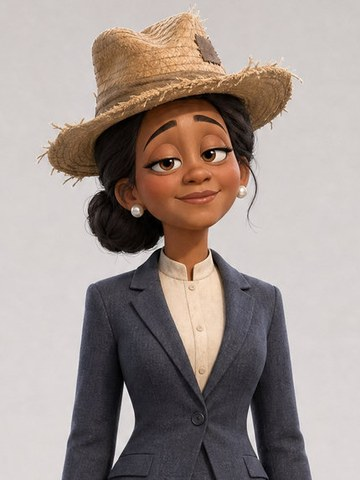
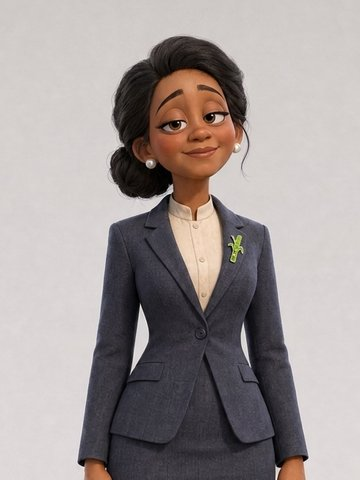
Fichas de toda la plantilla, puestos de Dependiente y Encarna responsable de ventas
Añade las fotos de carné que faltaban (Chema, Rafa, Ramiro, Remedios, Josemi,
Noelia, Yolanda, Jonay, Wilson, Borja, Marcelo, Karim y Gianni) y cambia la
de Inma por la versión sin sombrero. Mostrador pasa a Dependiente/Dependienta,
Encarna es responsable de ventas y Ramiro su jefe.

Claude-Session: https://claude.ai/code/session_01HZXDhY83XEg42pUPwt2wmp

diff --git a/js/datos.js b/js/datos.js
@@ -39,30 +39,30 @@ const PLANTILLA = [
   { nombre: "Don Evaristo", edad: 58, puesto: "Dirección", sede: "paramo", antiguedad: "Lunes 25", frase: "Aquí somos todos una gran familia.", perfil: "El jefe bueno. Firma todo sin leer, siempre para ayudar a un amigo.", senas: "Estilográfica en la mano y un folleto bajo el brazo", foto: "img/plantilla/evaristo.jpg", video: "", grabado: false },
   { nombre: "Cayetano", edad: 24, puesto: "Dirección (hijo del dueño)", sede: "paramo", antiguedad: "Lunes 25, desde las 11", frase: "Voy de culo.", perfil: "Llega a las once de una reunión, se va dos horas a comer y está siempre hasta arriba. Nadie sabe en qué trabaja.", senas: "Gafas de sol en la cabeza y llaves del BMW", foto: "img/plantilla/cayetano.jpg", video: "", grabado: true },
   { nombre: "Pelucifer", edad: "—", puesto: "Dirección (vive en la cabeza de Cayetano)", sede: "paramo", antiguedad: "Lo que tenga Cayetano", frase: "La verdadera felicidad son las criptomonedas.", perfil: "El peluquín con vida propia que se cree el verdadero jefe. Todos saben que está vivo y nadie lo comenta.", senas: "Un rizo grande delante y ojos de pillo", foto: "img/plantilla/pelucifer.jpg", video: "", grabado: false },
-  { nombre: "Chema", edad: 45, puesto: "Responsable de la sucursal", sede: "paramo", antiguedad: "Lunes 25", frase: "Para habernos matao.", perfil: "Macarra reconvertido en padre abnegado.", senas: "Pendientes, rapado y camiseta de grupo de rock", foto: "", video: "", grabado: false },
-  { nombre: "Rafa", edad: 44, puesto: "Comercial", sede: "paramo", antiguedad: "Lunes 25", frase: "Tú puedes, jefe... yo no, pero tú sí.", perfil: "Coach de superación que no se aplica nada. Sus charlas terminan con él llorando.", senas: "Micrófono de diadema y gafas de espejo", foto: "", video: "", grabado: false },
-  { nombre: "Ramiro", edad: 52, puesto: "Director de ventas", sede: "paramo", antiguedad: "Lunes 25", frase: "Hoy me como el mundo.", perfil: "Entra en cada reunión como en el final de una telenovela. A los cinco minutos se derrumba con dignidad.", senas: "Sombrero vaquero y espuelas que se oyen antes que él", foto: "", video: "", grabado: false },
+  { nombre: "Chema", edad: 45, puesto: "Responsable de la sucursal", sede: "paramo", antiguedad: "Lunes 25", frase: "Para habernos matao.", perfil: "Macarra reconvertido en padre abnegado.", senas: "Pendientes, rapado y camiseta de grupo de rock", foto: "img/plantilla/chema.jpg", video: "", grabado: false },
+  { nombre: "Rafa", edad: 44, puesto: "Comercial", sede: "paramo", antiguedad: "Lunes 25", frase: "Tú puedes, jefe... yo no, pero tú sí.", perfil: "Coach de superación que no se aplica nada. Sus charlas terminan con él llorando.", senas: "Micrófono de diadema y gafas de espejo", foto: "img/plantilla/rafa.jpg", video: "", grabado: false },
+  { nombre: "Ramiro", edad: 52, puesto: "Director de ventas (jefe de Rafa y Encarna)", sede: "paramo", antiguedad: "Lunes 25", frase: "Hoy me como el mundo.", perfil: "Entra en cada reunión como en el final de una telenovela. A los cinco minutos se derrumba con dignidad.", senas: "Sombrero vaquero y espuelas que se oyen antes que él", foto: "img/plantilla/ramiro.jpg", video: "", grabado: false },
   { nombre: "Anselmo", edad: 64, puesto: "Administración", sede: "paramo", antiguedad: "Se jubila la semana que viene", frase: "De aquí no te vas ni con los pies por delante.", perfil: "El veterano que cada mes anuncia que se va.", senas: "Mira siempre hacia arriba, como si oyera algo", foto: "img/plantilla/anselmo.jpg", video: "", grabado: true },
   { nombre: "Inma", edad: 32, puesto: "Jefa de Administración", sede: "paramo", antiguedad: "Lunes 25", frase: "Yo soy de campo, pero he estudiado.", perfil: "Elegancia extrema de oficina y el orgullo de quien lo consiguió todo con su esfuerzo. Cuando le toque la lotería no la volvéis a ver.", senas: "Pin de caña de azúcar en la solapa", foto: "img/plantilla/inma.jpg", video: "", grabado: true },
   { nombre: "Venancio", edad: 57, puesto: "Jefe de compras", sede: "paramo", antiguedad: "40 años en la casa", frase: "Esto con fe se arregla.", perfil: "Encomienda a un santo cada fallo de la impresora. Sabe dónde está todo porque llegó antes que los archivos.", senas: "Cruz pequeña en la solapa", foto: "img/plantilla/venancio.jpg", video: "", grabado: true },
-  { nombre: "Remedios", edad: 50, puesto: "Administración", sede: "paramo", antiguedad: "Lunes 25", frase: "A mí no me vais a robar el mérito.", perfil: "Tiene un pero para todo y siempre ya lo dijo, aunque nunca dijo nada.", senas: "Gafas que baja para mirar mal", foto: "", video: "", grabado: false },
-  { nombre: "Encarna", edad: 60, puesto: "Responsable de mostrador (media jornada)", sede: "paramo", antiguedad: "40 años en el mostrador", frase: "Son las dos.", perfil: "Cobra un plus por no tratar mal. A las 14:00 se levanta aunque esté a mitad de frase.", senas: "Reloj de pulsera enorme y bolso en el regazo", foto: "img/plantilla/encarna.jpg", video: "", grabado: true },
+  { nombre: "Remedios", edad: 50, puesto: "Administración", sede: "paramo", antiguedad: "Lunes 25", frase: "A mí no me vais a robar el mérito.", perfil: "Tiene un pero para todo y siempre ya lo dijo, aunque nunca dijo nada.", senas: "Gafas que baja para mirar mal y un tic en el ojo", foto: "img/plantilla/remedios.jpg", video: "", grabado: false },
+  { nombre: "Encarna", edad: 60, puesto: "Responsable de ventas (media jornada)", sede: "paramo", antiguedad: "40 años vendiendo. Ni un minuto más", frase: "Son las dos.", perfil: "Cobra un plus por no tratar mal. A las 14:00 se levanta aunque esté a mitad de frase.", senas: "Reloj de pulsera enorme y bolso en el regazo", foto: "img/plantilla/encarna.jpg", video: "", grabado: true },
   { nombre: "Manolo", edad: 48, puesto: "Almacén", sede: "paramo", antiguedad: "Lunes 25", frase: "Yo me encargo.", perfil: "El alma de la oficina. Sabe cómo toma el café cada uno y la bolsa de bollos nunca se acaba.", senas: "Un café siempre en la mano", foto: "img/plantilla/manolo.jpg", video: "", grabado: true },
-  { nombre: "Eladio", edad: 55, puesto: "Mostrador", sede: "paramo", antiguedad: "Hoy es su primer día (otra vez)", frase: "¿Esto ya lo he dicho?", perfil: "Se presenta cada mañana como si fuera su primer día.", senas: "Mirada perdida y sonrisa amable", foto: "img/plantilla/eladio.jpg", video: "", grabado: true },
-  { nombre: "Josemi", edad: 42, puesto: "Mostrador", sede: "paramo", antiguedad: "Lunes 25", frase: "Apúntalo, ya me lo pagas el lunes.", perfil: "Fía a todo el mundo y siempre pide un adelanto de nada.", senas: "Libreta de deudas y boli detrás de la oreja", foto: "", video: "", grabado: false },
-  { nombre: "Noelia", edad: 28, puesto: "Mostrador", sede: "paramo", antiguedad: "Lunes 25", frase: "Perdona, ¿te puedo ayudar? Es que me da cosa.", perfil: "La dulce que desarma a los brutos. Habla tan bajito que solo se oye un murmullo.", senas: "Uñas largas de colores y coletas", foto: "", video: "", grabado: false },
-  { nombre: "Kiko", edad: 40, puesto: "Mostrador", sede: "paramo", antiguedad: "Lunes 25", frase: "Jefe, jefe, tengo que contarte algo.", perfil: "Se cree agente secreto y se esconde tras las estanterías para enterarse de todo.", senas: "Mochila infantil llena de monstruitos", foto: "img/plantilla/kiko.jpg", video: "", grabado: false },
-  { nombre: "Yolanda", edad: 35, puesto: "Mostrador", sede: "paramo", antiguedad: "Lunes 25", frase: "La tengo más grande que todos estos.", perfil: "La dura en un mundo de hombres. Reta a pulsos a quien se descuide.", senas: "Brazos cruzados y barbilla alzada", foto: "", video: "", grabado: false },
-  { nombre: "Jonay", edad: 21, puesto: "Mostrador", sede: "paramo", antiguedad: "Lunes 25", frase: "Tío, me he enamorado.", perfil: "Cada lunes anuncia que esta vez es la definitiva. Actitud de campeón en cualquier situación.", senas: "Pecho fuera y sonrisa de anuncio", foto: "", video: "", grabado: false },
+  { nombre: "Eladio", edad: 55, puesto: "Dependiente", sede: "paramo", antiguedad: "Hoy es su primer día (otra vez)", frase: "¿Esto ya lo he dicho?", perfil: "Se presenta cada mañana como si fuera su primer día.", senas: "Mirada perdida y sonrisa amable", foto: "img/plantilla/eladio.jpg", video: "", grabado: true },
+  { nombre: "Josemi", edad: 42, puesto: "Dependiente", sede: "paramo", antiguedad: "Lunes 25", frase: "Apúntalo, ya me lo pagas el lunes.", perfil: "Fía a todo el mundo y siempre pide un adelanto de nada.", senas: "Libreta de deudas y boli detrás de la oreja", foto: "img/plantilla/josemi.jpg", video: "", grabado: false },
+  { nombre: "Noelia", edad: 28, puesto: "Dependienta", sede: "paramo", antiguedad: "Lunes 25", frase: "Perdona, ¿te puedo ayudar? Es que me da cosa.", perfil: "La dulce que desarma a los brutos. Habla tan bajito que solo se oye un murmullo.", senas: "Uñas largas de colores y coletas", foto: "img/plantilla/noelia.jpg", video: "", grabado: false },
+  { nombre: "Kiko", edad: 40, puesto: "Dependiente", sede: "paramo", antiguedad: "Lunes 25", frase: "Jefe, jefe, tengo que contarte algo.", perfil: "Se cree agente secreto y se esconde tras las estanterías para enterarse de todo.", senas: "Mochila infantil llena de monstruitos", foto: "img/plantilla/kiko.jpg", video: "", grabado: false },
+  { nombre: "Yolanda", edad: 35, puesto: "Dependienta", sede: "paramo", antiguedad: "Lunes 25", frase: "La tengo más grande que todos estos.", perfil: "La dura en un mundo de hombres. Reta a pulsos a quien se descuide.", senas: "Brazos cruzados y barbilla alzada", foto: "img/plantilla/yolanda.jpg", video: "", grabado: false },
+  { nombre: "Jonay", edad: 21, puesto: "Dependiente", sede: "paramo", antiguedad: "Lunes 25", frase: "Tío, me he enamorado.", perfil: "Cada lunes anuncia que esta vez es la definitiva. Actitud de campeón en cualquier situación.", senas: "Pecho fuera y sonrisa de anuncio", foto: "img/plantilla/jonay.jpg", video: "", grabado: false },
   { nombre: "Dylan", edad: 25, puesto: "Reparto", sede: "paramo", antiguedad: "Lunes 25", frase: "Tranqui, tranqui...", perfil: "Calmadísimo hasta que explota. Vive cada día como una tarde de domingo.", senas: "Llave de carretilla colgada del cuello", foto: "img/plantilla/dylan.jpg", video: "", grabado: false },
   { nombre: "Dani", edad: 30, puesto: "Reparto", sede: "paramo", antiguedad: "Vuelve en cinco minutos", frase: "Me quedan tres entregas.", perfil: "El repartidor que siempre vuelve en cinco minutos.", senas: "Casco roto y cigarro apagado", foto: "img/plantilla/dani.jpg", video: "", grabado: false },
-  { nombre: "Wilson", edad: 52, puesto: "Reparto", sede: "paramo", antiguedad: "Esperando a que arreglen la furgoneta", frase: "Sí, señor, como usted diga.", perfil: "El conductor educadísimo. Dice que sí a todo, pero nunca hace nada.", senas: "Termo plateado y gorra en la mano al saludar", foto: "", video: "", grabado: false },
-  { nombre: "Borja", edad: 23, puesto: "Reparto", sede: "paramo", antiguedad: "Lunes 25", frase: "Me voy a forrar, me he apuntado a...", perfil: "Cada mes empieza un curso nuevo y lo anuncia como su nueva vida.", senas: "Cara de perdido y mochila", foto: "", video: "", grabado: false },
-  { nombre: "Marcelo", edad: 50, puesto: "Pintura", sede: "paramo", antiguedad: "Nadie lo sabe", frase: "Yo soy artista, no empleado.", perfil: "El amigo del jefe al que nadie sabe qué hace. Vive entre humo y disolventes.", senas: "Cejas chamuscadas y un mechero", foto: "", video: "", grabado: false },
+  { nombre: "Wilson", edad: 52, puesto: "Reparto", sede: "paramo", antiguedad: "Esperando a que arreglen la furgoneta", frase: "Sí, señor, como usted diga.", perfil: "El conductor educadísimo. Dice que sí a todo, pero nunca hace nada.", senas: "Termo plateado y gorra en la mano al saludar", foto: "img/plantilla/wilson.jpg", video: "", grabado: false },
+  { nombre: "Borja", edad: 23, puesto: "Reparto", sede: "paramo", antiguedad: "Lunes 25", frase: "Me voy a forrar, me he apuntado a...", perfil: "Cada mes empieza un curso nuevo y lo anuncia como su nueva vida.", senas: "Cara de perdido y mochila", foto: "img/plantilla/borja.jpg", video: "", grabado: false },
+  { nombre: "Marcelo", edad: 50, puesto: "Pintura", sede: "paramo", antiguedad: "Nadie lo sabe", frase: "Yo soy artista, no empleado.", perfil: "El amigo del jefe al que nadie sabe qué hace. Vive entre humo y disolventes.", senas: "Cejas chamuscadas y un mechero", foto: "img/plantilla/marcelo.jpg", video: "", grabado: false },
   // Sucursal · Villacándida
   { nombre: "Rubén", edad: 46, puesto: "Responsable", sede: "villa", antiguedad: "Un lunes fluido", frase: "Todo fluye... pero antes de las cinco.", perfil: "Hippy reconvertido en padre de familia. Plantea reuniones en círculo y no llega a ninguna decisión.", senas: "Sandalias con calcetines y collar de conchas", foto: "img/plantilla/ruben.jpg", video: "", grabado: false },
-  { nombre: "Karim", edad: 35, puesto: "Mostrador", sede: "villa", antiguedad: "Lunes 25", frase: "Prefiero no opinar.", perfil: "Expolicía introvertido y preciso. Trata cada tarea como un caso y es el único que termina todo lo que empieza.", senas: "Libreta de policía y gafas amarillas", foto: "", video: "", grabado: false },
-  { nombre: "Gianni", edad: 50, puesto: "Repartidor", sede: "villa", antiguedad: "Lunes 25 (y aperitivo)", frase: "Dopo lavoro, aperitivo!", perfil: "Italiano cincuentón que todo lo quiere celebrar. Convoca un aperitivo cada día, a cualquier hora.", senas: "Copa de espumoso permanente", foto: "", video: "", grabado: false }
+  { nombre: "Karim", edad: 35, puesto: "Dependiente", sede: "villa", antiguedad: "Lunes 25", frase: "Prefiero no opinar.", perfil: "Expolicía introvertido y preciso. Trata cada tarea como un caso y es el único que termina todo lo que empieza.", senas: "Libreta de policía y gafas amarillas", foto: "img/plantilla/karim.jpg", video: "", grabado: false },
+  { nombre: "Gianni", edad: 50, puesto: "Repartidor", sede: "villa", antiguedad: "Lunes 25 (y aperitivo)", frase: "Dopo lavoro, aperitivo!", perfil: "Italiano cincuentón que todo lo quiere celebrar. Convoca un aperitivo cada día, a cualquier hora.", senas: "Copa de espumoso permanente", foto: "img/plantilla/gianni.jpg", video: "", grabado: false }
 ];
 
 /* TIENDA
@@ -109,7 +109,7 @@ const FRASES = [
 const SEDES = [
   { id: "paramo", nombre: "Sede central · El Páramo", tipo: "Sede central",
     texto: "Un pueblo costero de postal: palmeras, mar turquesa y turistas en bañador. En medio, un edificio gris con su propia nube de lluvia, que solo cubre el local. Dentro, fluorescentes, archivadores y un calendario que no se mueve.",
-    datos: [["Horario", "De 8:00 a 14:00. Encarna, a las 14:00 en punto, ni un minuto más."], ["Cómo llegar", "Busque la única nube del pueblo."], ["Aparcamiento", "El sitio prohibido es de Cayetano."], ["Atención", "Mostrador con siete empleados. Con suerte, le atiende uno."]],
+    datos: [["Horario", "De 8:00 a 14:00. Encarna, a las 14:00 en punto, ni un minuto más."], ["Cómo llegar", "Busque la única nube del pueblo."], ["Aparcamiento", "El sitio prohibido es de Cayetano."], ["Atención", "Siete dependientes. Con suerte, le atiende uno."]],
     postit: "Miguel ha pasado por aquí",
     fotos: ["img/sedes/paramo-exterior.jpg", "img/sedes/paramo-mostrador.jpg", "img/sedes/paramo-administracion.jpg"], video: "" },
   { id: "villa", nombre: "Sucursal · Villacándida", tipo: "Sucursal",
@@ -126,7 +126,7 @@ const KIKO = {
     "La serie la escribe Virginia. Claude, la nube, la ayuda con los prompts de cada escena.",
     "La sede central tiene su propia nube de lluvia. No se ha ido nunca.",
     "En Villacándida solo trabajan tres personas, y aun así nunca deciden nada.",
-    "Encarna lleva 40 años en el mostrador y no se ha quedado ni un minuto más de su hora.",
+    "Encarna lleva 40 años en ventas y no se ha quedado ni un minuto más de su hora.",
     "Eladio se presenta cada mañana. A todos. Otra vez.",
     "Pelucifer, el peluquín de Cayetano, cree que el jefe es él.",
     "Gianni ha convocado un aperitivo para celebrar que es lunes.",
